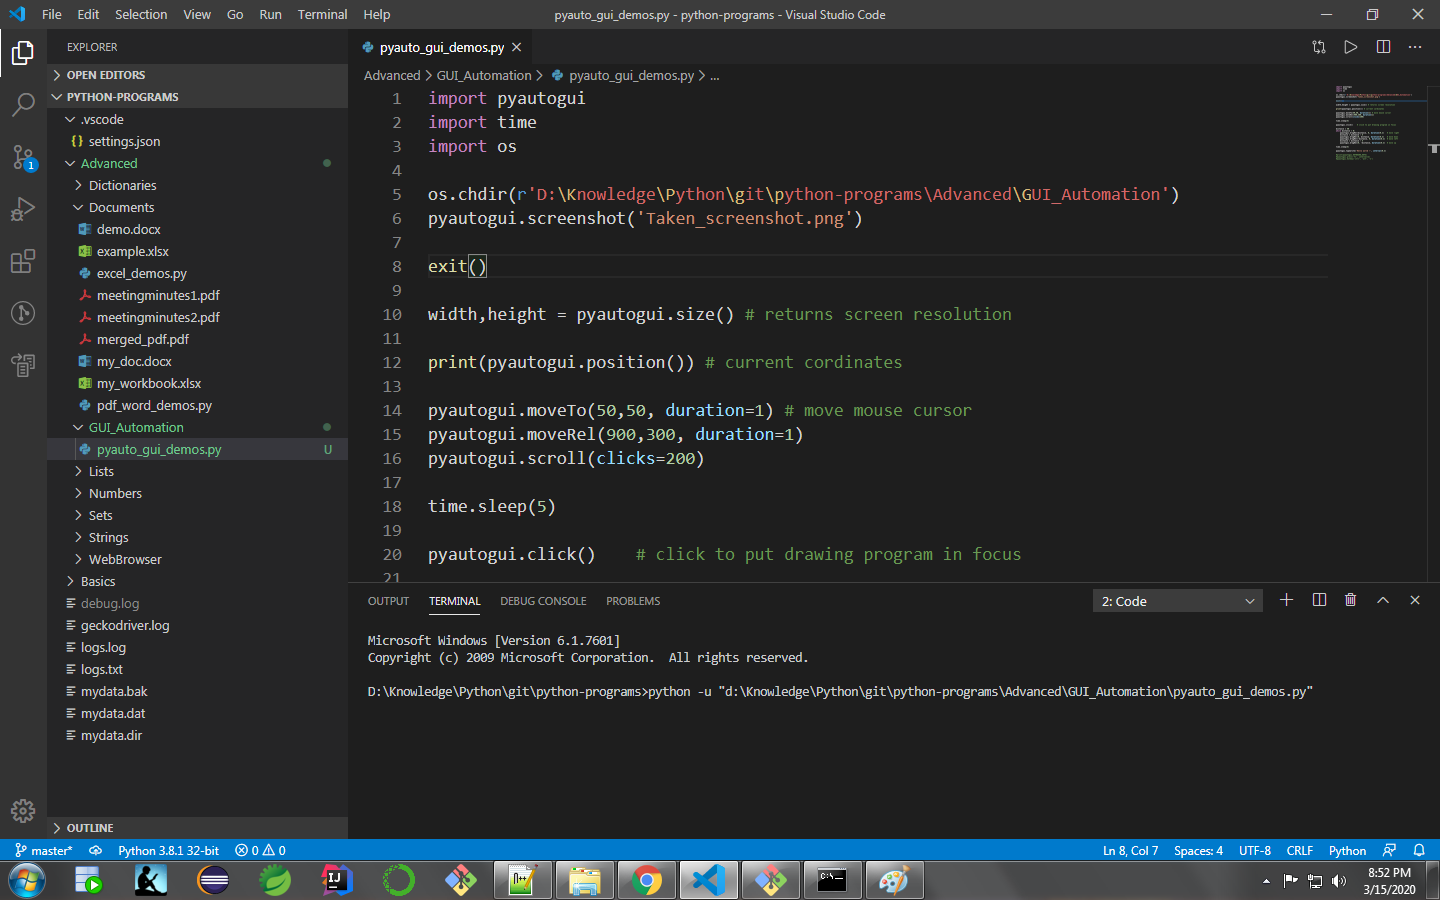
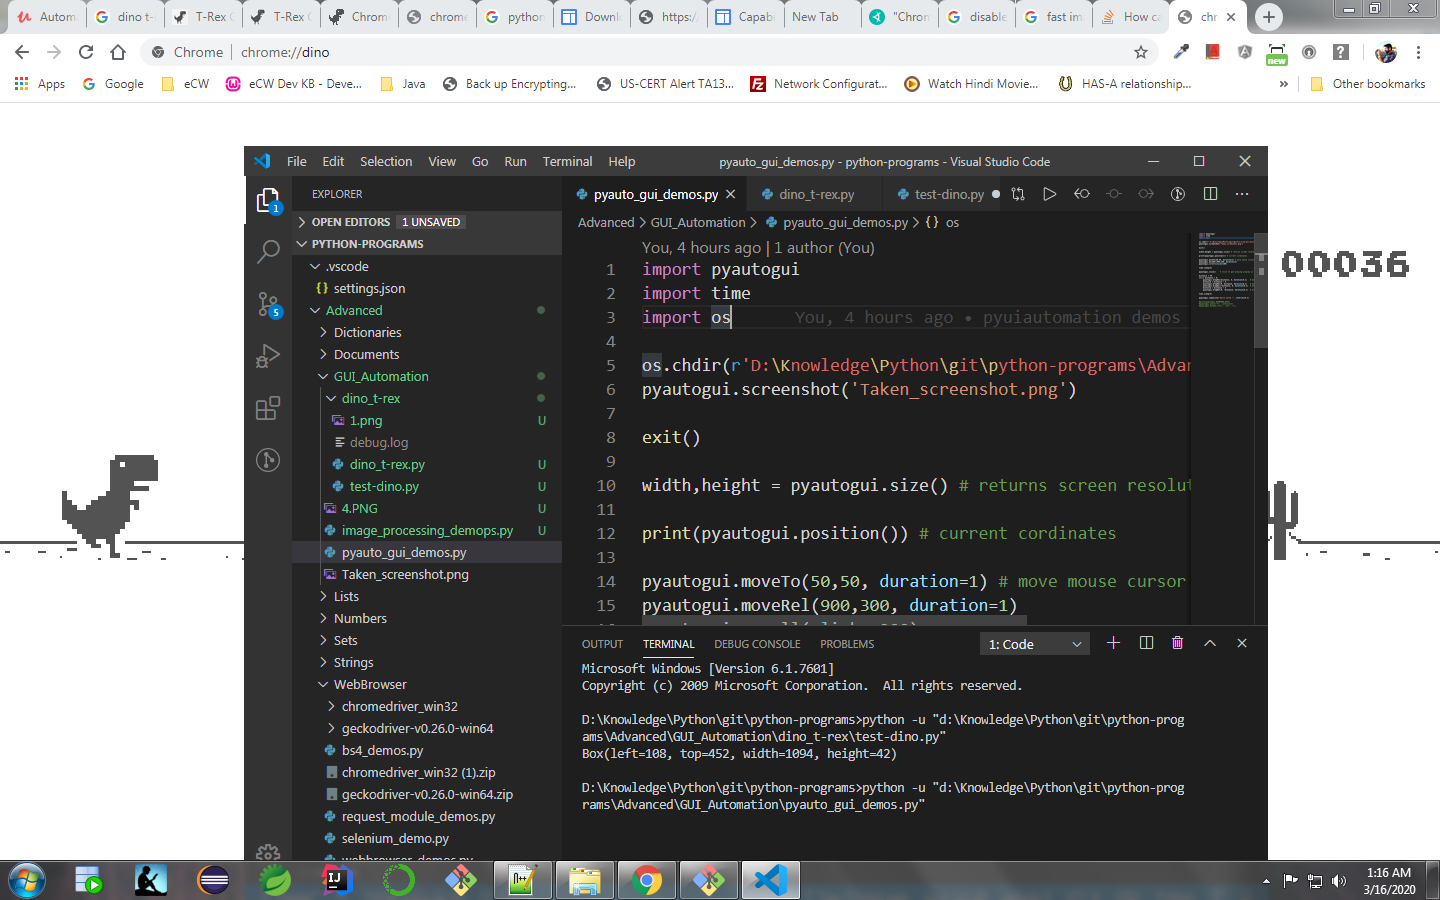
Image processing programs added

diff --git a/python-programs/Advanced/GUI_Automation/dino_t-rex/dino_t-rex.py b/python-programs/Advanced/GUI_Automation/dino_t-rex/dino_t-rex.py
@@ -1,0 +1,58 @@
+import os, time
+import pyautogui
+import threading
+from selenium import webdriver
+
+
+
+os.chdir(r'D:\Knowledge\Python\git\python-programs\Advanced\GUI_Automation\dino_t-rex')
+
+chrome_options = webdriver.ChromeOptions()
+chrome_options.add_experimental_option("excludeSwitches", ['enable-automation'])
+chrome_options.add_argument("--disable-extensions")
+
+chrome_browser = webdriver.Chrome(executable_path=r'D:\Knowledge\Python\git\python-programs\Advanced\WebBrowser\chromedriver_win32\chromedriver.exe', options=chrome_options)
+chrome_browser.maximize_window()
+
+chrome_browser.get('chrome://dino/')
+
+time.sleep(5)
+pyautogui.moveTo(1335, 80)
+pyautogui.click()
+pyautogui.click()
+
+pyautogui.press('space')
+
+def check_for_jump():
+    print('check_for_jump called')
+    pyautogui.press('f10')
+    if pyautogui.locateOnScreen('1.png') != None:
+        pyautogui.press('f10')
+        pyautogui.press('space')
+
+while True:
+    t = threading.Timer(2, check_for_jump)
+    t.start()
+
+""" while True:
+    pyautogui.press('space')
+
+while True:
+    if pyautogui.locateOnScreen('1.png') != None:
+        time.sleep(0.2) """
+
+    
+
+""" while True:
+    pyautogui.press('f10')
+    if pyautogui.locateOnScreen('1.png') != None:
+        print('y')
+        time.sleep(0.5)
+        pyautogui.press('space')
+    else:
+        print('n' )
+    pyautogui.press('f10') """
+
+
+""" time.sleep(10)         
+chrome_browser.quit() """

diff --git a/python-programs/Advanced/GUI_Automation/dino_t-rex/test-dino.py b/python-programs/Advanced/GUI_Automation/dino_t-rex/test-dino.py
@@ -1,0 +1,6 @@
+import os, time
+import pyautogui
+
+os.chdir(r'D:\Knowledge\Python\git\python-programs\Advanced\GUI_Automation\dino_t-rex')
+print(pyautogui.locateOnScreen('1.png')) 
+pyautogui.press('space')

diff --git a/python-programs/Advanced/GUI_Automation/image_processing_demops.py b/python-programs/Advanced/GUI_Automation/image_processing_demops.py
@@ -1,0 +1,8 @@
+import os
+import pyautogui
+
+os.chdir(r'D:\Knowledge\Python\git\python-programs\Advanced\GUI_Automation')
+print(pyautogui.locateOnScreen('4.png'))
+
+pyautogui.press('space')
+ 
